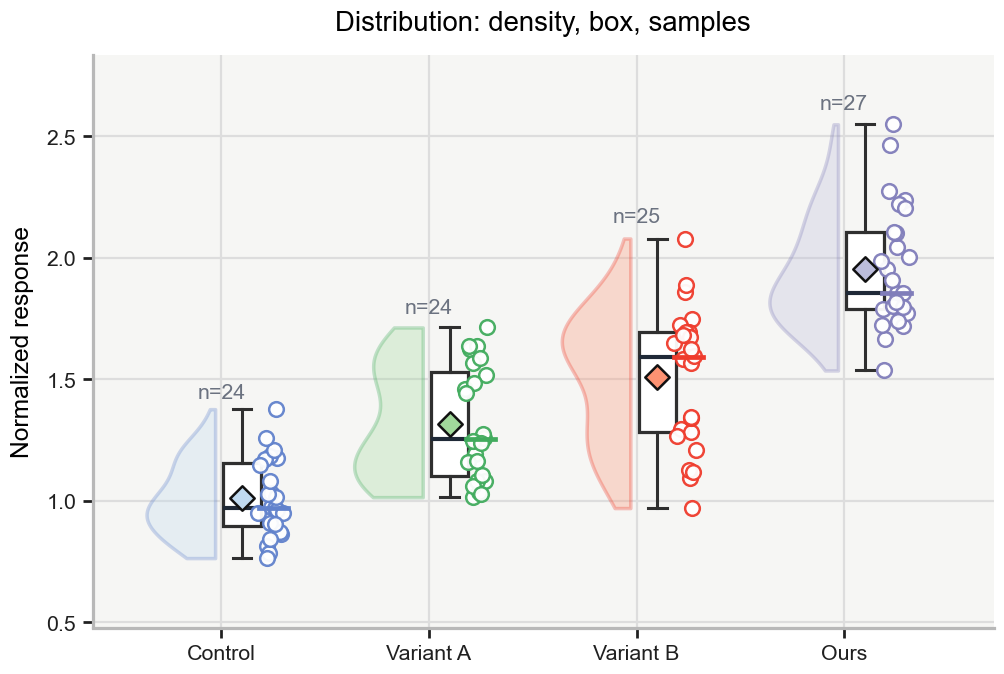
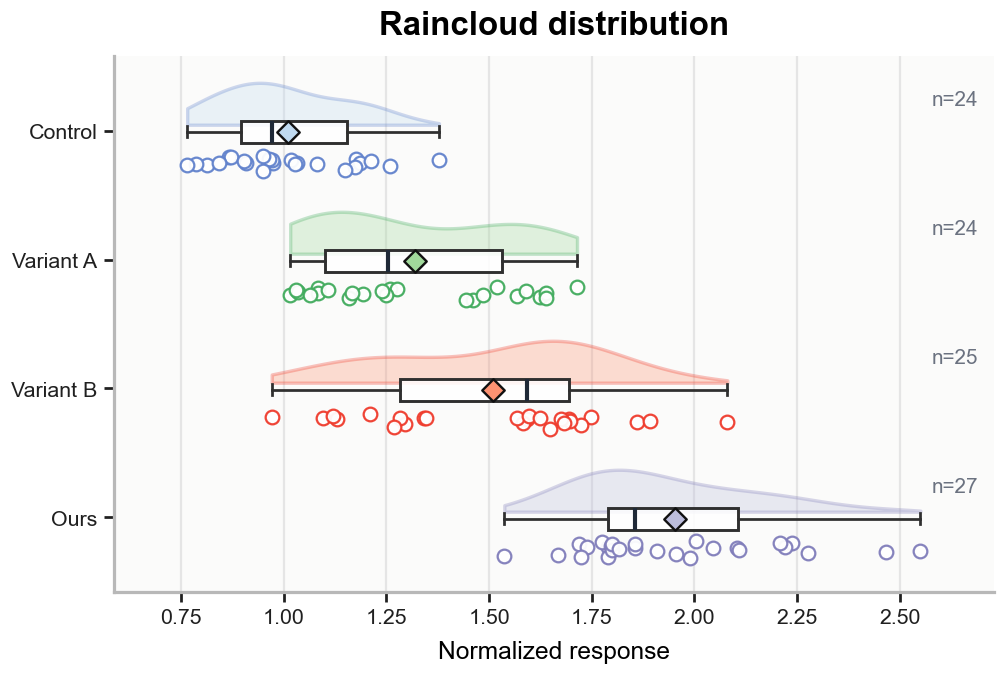
Polish distribution and pareto gallery plots

diff --git a/scripts/paperplots/top_paper_plots.py b/scripts/paperplots/top_paper_plots.py
@@ -276,7 +276,8 @@ def pareto_scatter_plot(
     xs = np.asarray(x, dtype=float)
     ys = np.asarray(y, dtype=float)
     sizes = np.asarray(size if size is not None else np.full_like(xs, 85), dtype=float)
-    scaled_sizes = 68 + 210 * (sizes - np.nanmin(sizes)) / max(float(np.nanmax(sizes) - np.nanmin(sizes)), 1e-9)
+    size_span = max(float(np.nanmax(sizes) - np.nanmin(sizes)), 1e-9)
+    scaled_sizes = 54 + 132 * (sizes - np.nanmin(sizes)) / size_span
     colors = [_soft_edge(i) for i in range(len(xs))]
     fills = [_soft_fill(i) for i in range(len(xs))]
     order = np.argsort(xs)
@@ -292,39 +293,43 @@ def pareto_scatter_plot(
     ax.set_xlim(float(np.nanmin(xs)) - x_pad, float(np.nanmax(xs)) + x_pad * 1.55)
     ax.set_ylim(float(np.nanmin(ys)) - y_pad * 0.45, float(np.nanmax(ys)) + y_pad * 0.55)
     if len(frontier) >= 2:
-        ax.fill_between(
-            xs[frontier],
-            ys[frontier],
-            ax.get_ylim()[0],
-            color="#D8EFE4",
-            alpha=0.48,
-            step=None,
-            zorder=1,
-        )
-        ax.plot(xs[frontier], ys[frontier], color="#111111", linewidth=1.55, linestyle="--", alpha=0.82, zorder=2)
+        ax.plot(xs[frontier], ys[frontier], color="#222222", linewidth=1.45, linestyle="--", alpha=0.84, zorder=2)
+        ax.scatter(xs[frontier], ys[frontier], s=24, facecolors="white", edgecolors="#222222", linewidths=0.8, zorder=3)
     frontier_set = set(frontier)
+    edge_colors = [colors[idx] if idx in frontier_set else "#9CA3AF" for idx in range(len(xs))]
+    face_colors = [fills[idx] if idx in frontier_set else "#E5E7EB" for idx in range(len(xs))]
     ax.scatter(
         xs,
         ys,
         s=scaled_sizes,
-        facecolors=fills,
-        edgecolors=colors,
-        alpha=[0.97 if idx in frontier_set else 0.58 for idx in range(len(xs))],
-        linewidth=[1.55 if idx in frontier_set else 1.0 for idx in range(len(xs))],
-        zorder=3,
+        facecolors=face_colors,
+        edgecolors=edge_colors,
+        alpha=[0.96 if idx in frontier_set else 0.70 for idx in range(len(xs))],
+        linewidth=[1.45 if idx in frontier_set else 0.85 for idx in range(len(xs))],
+        zorder=4,
     )
-    offset_pattern = [(7, 7), (7, -12), (8, 5), (-42, 7), (8, -12), (-48, -10), (8, 10), (8, -10), (-48, 6), (8, 6)]
+    offset_pattern = [(6, 7), (7, -11), (7, 6), (7, -11), (8, 7), (-44, -2), (7, 9), (7, -13), (-46, 7), (8, 6)]
+    label_offsets = {
+        "Ours-S": (9, 16),
+        "Ours-B": (10, -20),
+        "Ours-L": (-62, 9),
+        "MoE": (-58, -2),
+        "Dense": (10, -12),
+        "Aug": (9, -18),
+        "Base": (9, 8),
+    }
     for idx, (xi, yi, label) in enumerate(zip(xs, ys, labels)):
         is_frontier = idx in frontier
-        dx, dy = offset_pattern[idx % len(offset_pattern)]
+        dx, dy = label_offsets.get(str(label), offset_pattern[idx % len(offset_pattern)])
         ax.annotate(
             label,
             (xi, yi),
             xytext=(dx, dy),
             textcoords="offset points",
-            fontsize=7.4,
+            fontsize=7.1,
             color="#111111" if is_frontier else "#4B5563",
             fontweight="bold" if is_frontier else "normal",
+            bbox={"facecolor": "white", "edgecolor": "none", "alpha": 0.70, "pad": 0.7},
             arrowprops={
                 "arrowstyle": "-",
                 "color": "#9CA3AF",
@@ -337,18 +342,29 @@ def pareto_scatter_plot(
         )
     if frontier:
         best_idx = max(frontier, key=lambda idx: ys[idx])
-        ax.scatter([xs[best_idx]], [ys[best_idx]], s=scaled_sizes[best_idx] * 1.12, facecolors="#FFF2B2", edgecolors="#B45309", linewidth=1.7, zorder=4)
-        ax.text(0.03, 0.94, "Pareto-efficient region", transform=ax.transAxes, ha="left", va="top", fontsize=7.4, color="#2F6F57", fontweight="bold")
+        ax.scatter([xs[best_idx]], [ys[best_idx]], s=scaled_sizes[best_idx] * 1.12, facecolors="#FFF2B2", edgecolors="#B45309", linewidth=1.65, zorder=5)
+        ax.annotate(
+            "better",
+            xy=(0.08, 0.90),
+            xytext=(0.19, 0.79),
+            xycoords="axes fraction",
+            textcoords="axes fraction",
+            arrowprops={"arrowstyle": "->", "linewidth": 0.85, "color": "#6B7280"},
+            fontsize=7.1,
+            color="#6B7280",
+            ha="center",
+            va="center",
+        )
     if size is not None:
         legend_sizes = [float(np.nanpercentile(sizes, 25)), float(np.nanpercentile(sizes, 75))]
         handles = [
-            ax.scatter([], [], s=68 + 210 * (v - np.nanmin(sizes)) / max(float(np.nanmax(sizes) - np.nanmin(sizes)), 1e-9), facecolors="#ECECEC", edgecolors="#777777", label=f"{v:g}M")
+            ax.scatter([], [], s=54 + 132 * (v - np.nanmin(sizes)) / size_span, facecolors="#F3F4F6", edgecolors="#777777", label=f"{v:g}M")
             for v in legend_sizes
         ]
-        ax.legend(handles=handles, title="Params", frameon=False, loc="lower right", fontsize=7.0, title_fontsize=7.2, borderpad=0.2, handletextpad=0.8)
+        ax.legend(handles=handles, title="Params", frameon=False, loc="lower right", fontsize=6.8, title_fontsize=7.0, borderpad=0.2, handletextpad=0.8)
     ax.set_xlabel(xlabel)
     ax.set_ylabel(ylabel)
-    ax.set_title(title, fontweight="bold", pad=9)
+    ax.set_title(title, fontweight="bold", fontsize=11.2, pad=8)
     _style_axis(ax, look)
 
 
@@ -412,10 +428,10 @@ def demo_ablation_matrix() -> plt.Figure:
 
 def demo_pareto_scatter() -> plt.Figure:
     labels = ["Tiny", "Fast", "Base", "Aug", "Dense", "MoE", "Ours-S", "Ours-B", "Ours-L"]
-    x = np.array([7.5, 10.0, 15.8, 19.5, 34.0, 29.0, 13.2, 20.8, 26.4])
-    y = np.array([0.58, 0.66, 0.72, 0.76, 0.79, 0.82, 0.80, 0.85, 0.885])
+    x = np.array([7.2, 10.4, 15.8, 18.9, 31.5, 27.0, 13.4, 20.5, 24.8])
+    y = np.array([0.61, 0.70, 0.735, 0.765, 0.805, 0.835, 0.812, 0.858, 0.888])
     sizes = np.array([38, 52, 86, 96, 160, 142, 74, 112, 138])
-    fig, ax = plt.subplots(figsize=(5.35, 3.55), layout="constrained")
+    fig, ax = plt.subplots(figsize=(5.05, 3.15), layout="constrained")
     pareto_scatter_plot(ax, x, y, labels, size=sizes, xlabel="Latency (ms)", ylabel="Score")
     return fig
 

diff --git a/scripts/paper_plot.py b/scripts/paper_plot.py
@@ -531,7 +531,7 @@ def violin_box_points(
     ylabel: str | None = None,
     seed: int = 11,
 ) -> plt.Axes:
-    """Draw polished distribution panels with density, summary, and raw points."""
+    """Draw a compact horizontal raincloud distribution panel."""
 
     if ax is None:
         _, ax = plt.subplots(figsize=(4.0, 2.85), layout="constrained")
@@ -543,72 +543,78 @@ def violin_box_points(
         pd.to_numeric(data.loc[data[group] == label, value], errors="coerce").dropna().to_numpy()
         for label in order
     ]
-    positions = np.arange(len(order))
+    positions = np.arange(len(order))[::-1]
 
-    parts = ax.violinplot(values, positions=positions, widths=0.72, showmeans=False, showextrema=False, showmedians=False)
+    parts = ax.violinplot(values, positions=positions, widths=0.74, vert=False, showmeans=False, showextrema=False, showmedians=False)
     for pos, body, fill_color, edge_color in zip(positions, parts["bodies"], fill_colors, edge_colors):
         for path in body.get_paths():
             vertices = path.vertices
-            vertices[:, 0] = np.minimum(vertices[:, 0], pos - 0.03)
+            vertices[:, 1] = np.maximum(vertices[:, 1], pos + 0.045)
         body.set_facecolor(mcolors.to_rgba(fill_color, 0.66))
         body.set_edgecolor(edge_color)
-        body.set_linewidth(1.15)
+        body.set_linewidth(1.1)
         body.set_zorder(2)
 
     ax.boxplot(
         values,
-        positions=positions + 0.10,
-        widths=0.18,
+        vert=False,
+        positions=positions - 0.01,
+        widths=0.17,
         patch_artist=True,
         showfliers=False,
         medianprops={"color": "#1F2937", "linewidth": 1.35},
-        boxprops={"facecolor": "white", "edgecolor": "#2F2F2F", "linewidth": 1.05},
-        whiskerprops={"color": "#2F2F2F", "linewidth": 1.0},
-        capprops={"color": "#2F2F2F", "linewidth": 1.0},
+        boxprops={"facecolor": mcolors.to_rgba("white", 0.88), "edgecolor": "#2F2F2F", "linewidth": 0.95},
+        whiskerprops={"color": "#2F2F2F", "linewidth": 0.9},
+        capprops={"color": "#2F2F2F", "linewidth": 0.9},
     )
-    for i, vals in enumerate(values):
+    for i, (pos, vals) in enumerate(zip(positions, values)):
         jitter = rng.normal(0, 0.035, size=vals.size)
         ax.scatter(
-            np.full(vals.size, i + 0.24) + jitter,
             vals,
-            s=23,
+            np.full(vals.size, pos - 0.25) + jitter,
+            s=20,
             facecolors="white",
             edgecolors=edge_colors[i],
-            linewidths=0.82,
+            linewidths=0.74,
             alpha=0.95,
             zorder=4,
         )
         if vals.size:
             mean_val = float(np.mean(vals))
-            median_val = float(np.median(vals))
             ax.scatter(
-                [i + 0.10],
                 [mean_val],
+                [pos - 0.01],
                 marker="D",
-                s=32,
+                s=27,
                 facecolors=fill_colors[i],
                 edgecolors="#111111",
-                linewidths=0.82,
+                linewidths=0.78,
                 zorder=5,
             )
-            ax.plot([i + 0.18, i + 0.32], [median_val, median_val], color=edge_colors[i], linewidth=1.55, zorder=5)
-            ax.text(
-                i,
-                float(np.nanmax(vals)) + max(float(np.nanstd(vals)), 0.08) * 0.18,
-                f"n={vals.size}",
-                ha="center",
-                va="bottom",
-                fontsize=7.0,
-                color="#6B7280",
-            )
 
-    ax.set_xticks(positions, order)
-    ax.set_ylabel(ylabel or value)
-    ax.set_xlim(-0.62, len(order) - 0.28)
+    ax.set_yticks(positions, order)
+    ax.set_xlabel(ylabel or value)
+    ax.set_ylabel("")
     finite_values = [v for v in values if v.size]
     if finite_values:
-        ax.set_ylim(dynamic_ylim(np.concatenate(finite_values), pad_fraction=0.16))
-    _paper_panel_axis(ax, grid=True)
+        xlim = dynamic_ylim(np.concatenate(finite_values), pad_fraction=0.10)
+        ax.set_xlim(xlim)
+        span = xlim[1] - xlim[0]
+        for pos, vals in zip(positions, values):
+            if vals.size:
+                ax.text(
+                    xlim[1] - span * 0.018,
+                    pos + 0.24,
+                    f"n={vals.size}",
+                    ha="right",
+                    va="center",
+                    fontsize=6.8,
+                    color="#6B7280",
+                )
+    ax.set_ylim(float(np.min(positions)) - 0.58, float(np.max(positions)) + 0.58)
+    _paper_panel_axis(ax, grid=False, face="#FBFBFA")
+    ax.grid(axis="x", color="#E5E5E5", linewidth=0.72, zorder=0)
+    ax.grid(axis="y", visible=False)
     return ax
 
 
@@ -1656,7 +1662,7 @@ def demo(kind: str, out_dir: str | Path, formats: Sequence[str], dpi: int, style
         setup_theme("compact")
         fig, ax = plt.subplots(figsize=(4.55, 3.05), layout="constrained")
         violin_box_points(_demo_distribution(), "group", "response", ax=ax, ylabel="Normalized response")
-        ax.set_title("Distribution: density, box, samples", pad=8)
+        ax.set_title("Raincloud distribution", fontsize=10.8, fontweight="bold", pad=7)
         made.extend(save_figure(fig, out / "demo_violin_box_points", formats=formats, dpi=dpi))
         plt.close(fig)
         style = setup_theme(style_name)
